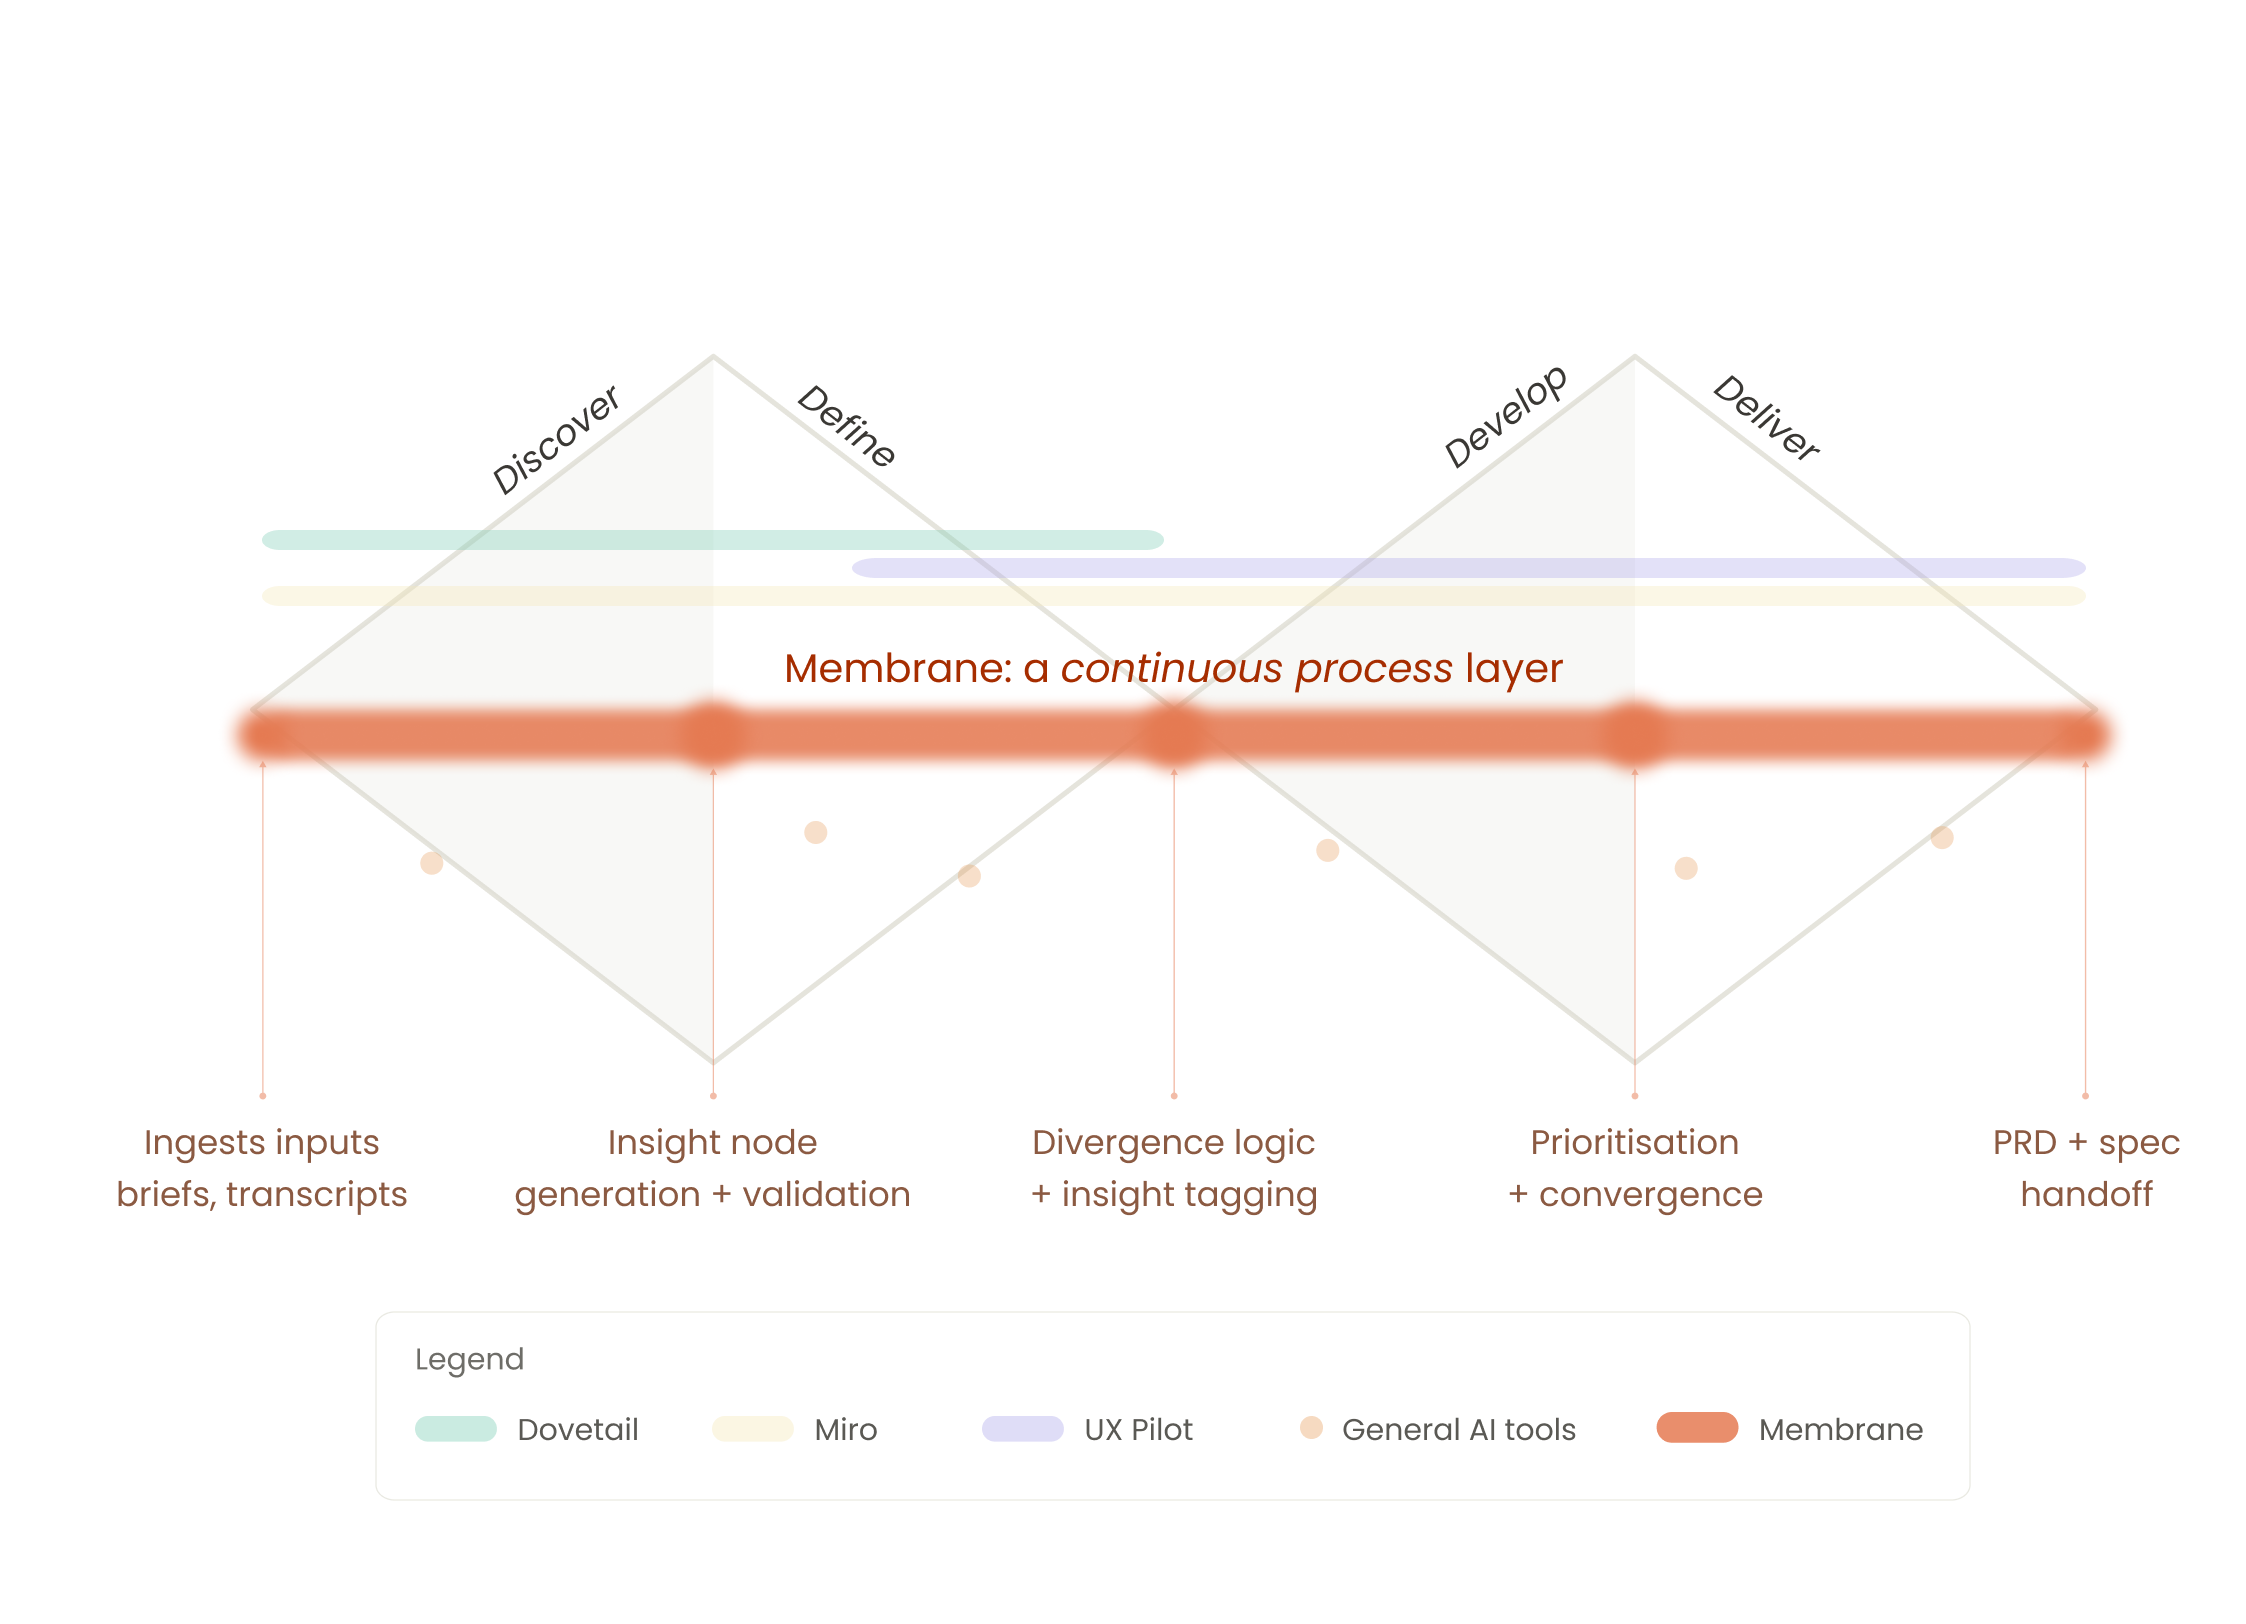
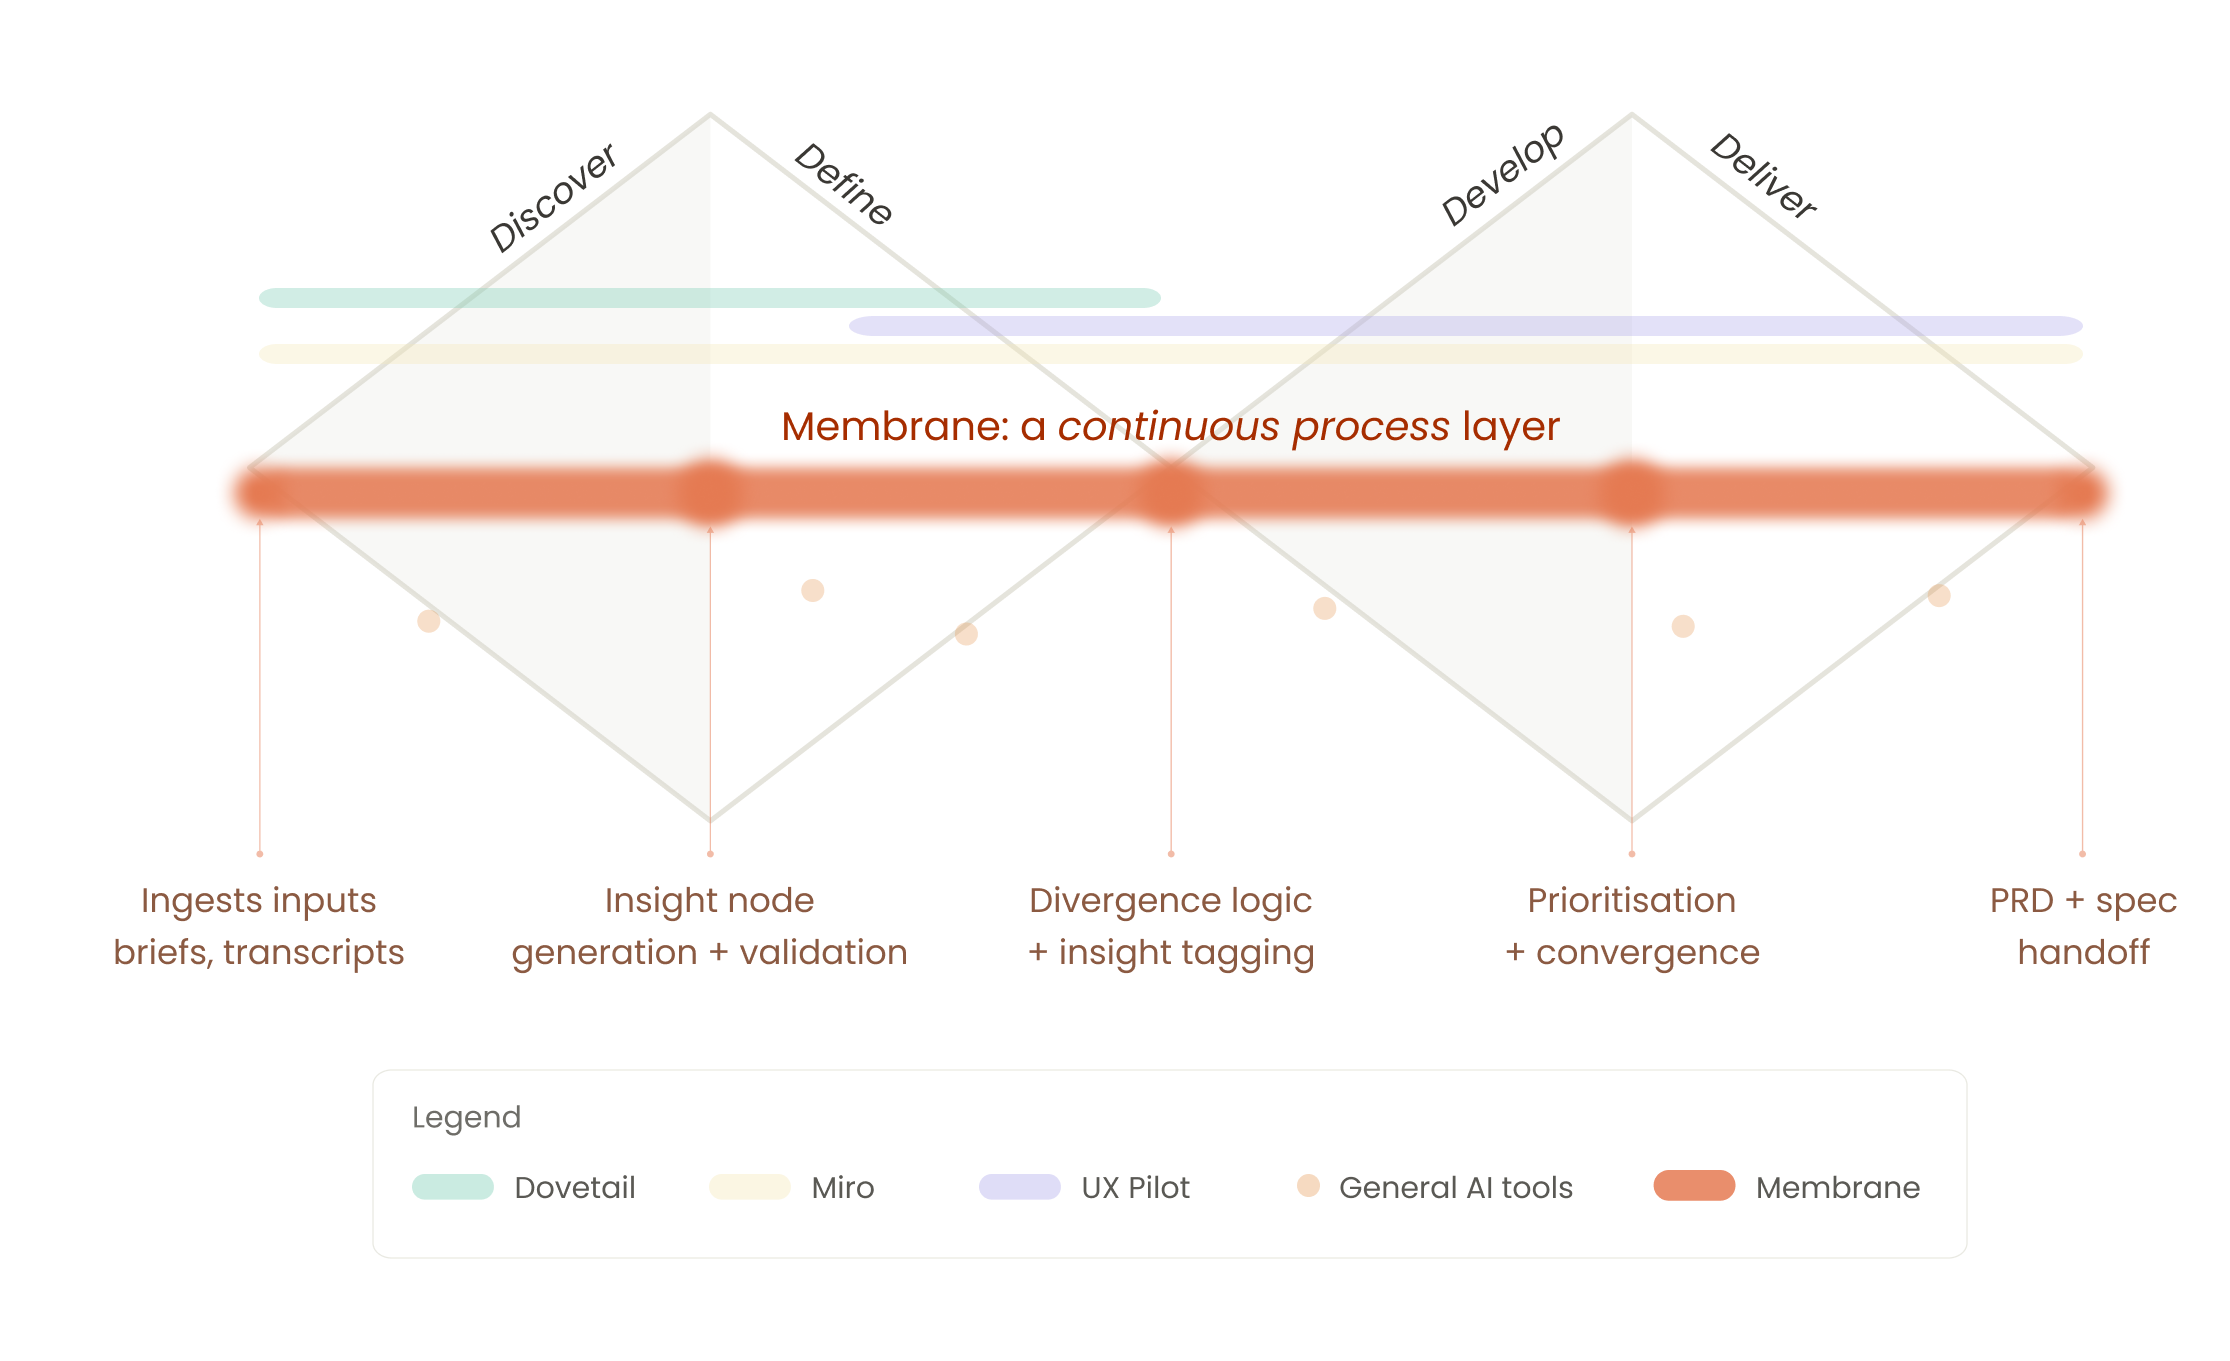
Typography fixes to index.html; add meta.html; update membrane images

diff --git a/meta.html b/meta.html
@@ -1,0 +1,244 @@
+<!DOCTYPE html>
+<html lang="en" data-theme="dark">
+<head>
+  <meta charset="UTF-8" />
+  <meta name="viewport" content="width=device-width, initial-scale=1.0" />
+  <title>This Portfolio Is the Case Study — Karissa Ly</title>
+  <link rel="preconnect" href="https://fonts.googleapis.com" />
+  <link rel="preconnect" href="https://fonts.gstatic.com" crossorigin />
+  <link href="https://fonts.googleapis.com/css2?family=Playfair+Display:ital,wght@0,400;0,600;1,400;1,600&display=swap" rel="stylesheet" />
+  <link href="https://api.fontshare.com/v2/css?f[]=satoshi@400,500,600&display=swap" rel="stylesheet" />
+
+  <style>
+    :root {
+      --orange:  #FF7A35;
+      --lilac:   #C8AAFF;
+      --blue:    #7DCEFF;
+      --pink:    #FF96C3;
+      --serif:   'Playfair Display', Georgia, serif;
+      --sans:    'Satoshi', system-ui, sans-serif;
+      --ease:    cubic-bezier(0.16, 1, 0.3, 1);
+    }
+    [data-theme="dark"] {
+      --bg:         #0d0c0b;
+      --bg-card:    #131210;
+      --bg-subtle:  rgba(240,237,232,0.04);
+      --text:       #f0ede8;
+      --text-muted: rgba(240,237,232,0.5);
+      --text-faint: rgba(240,237,232,0.25);
+      --border:     rgba(240,237,232,0.08);
+      --border-mid: rgba(240,237,232,0.14);
+      --accent:     #FF7A35;
+    }
+    [data-theme="light"] {
+      --bg:         #faf7f2;
+      --bg-card:    #f2ede4;
+      --bg-subtle:  rgba(26,25,22,0.04);
+      --text:       #1a1916;
+      --text-muted: rgba(26,25,22,0.5);
+      --text-faint: rgba(26,25,22,0.25);
+      --border:     rgba(26,25,22,0.09);
+      --border-mid: rgba(26,25,22,0.15);
+      --orange:  #E8540A;
+      --accent:     #E8540A;
+    }
+
+    *, *::before, *::after { box-sizing: border-box; margin: 0; padding: 0; }
+    html { font-size: 16px; scroll-behavior: smooth; }
+    body {
+      background: var(--bg); color: var(--text);
+      font-family: var(--sans); line-height: 1.7;
+      transition: background 0.3s var(--ease), color 0.3s var(--ease);
+    }
+    a { color: inherit; text-decoration: none; }
+    button { cursor: pointer; font-family: var(--sans); }
+
+    @keyframes fadeUp {
+      from { opacity: 0; transform: translateY(12px); }
+      to   { opacity: 1; transform: translateY(0); }
+    }
+
+    /* NAV */
+    nav {
+      position: sticky; top: 0; z-index: 100;
+      background: var(--bg); border-bottom: 0.5px solid var(--border);
+    }
+    .nav-inner {
+      max-width: 1080px; margin: 0 auto; padding: 18px 32px;
+      display: flex; justify-content: space-between; align-items: center;
+    }
+    .nav-logo { font-family: var(--serif); font-style: italic; font-size: 22px; }
+    .nav-links { display: flex; gap: 24px; align-items: center; }
+    .nav-back {
+      font-size: 12px; font-weight: 500; letter-spacing: 0.08em;
+      text-transform: uppercase; color: var(--text-muted);
+      transition: color 0.2s;
+    }
+    .nav-back:hover { color: var(--text); }
+    .mode-toggle {
+      background: var(--bg-subtle); border: 0.5px solid var(--border-mid);
+      border-radius: 20px; padding: 6px 12px;
+      font-size: 11px; font-weight: 500; letter-spacing: 0.08em;
+      color: var(--text-muted); transition: color 0.2s, background 0.2s;
+    }
+    .mode-toggle:hover { color: var(--text); }
+
+    /* HERO */
+    .meta-hero {
+      max-width: 680px; margin: 0 auto;
+      padding: 72px 32px 56px;
+    }
+    .meta-type {
+      font-size: 11px; font-weight: 600; letter-spacing: 0.18em;
+      text-transform: uppercase; color: var(--accent); margin-bottom: 20px;
+      opacity: 0; animation: fadeUp 0.7s var(--ease) 0.1s forwards;
+    }
+    .meta-title {
+      font-family: var(--serif); font-size: clamp(36px, 5vw, 56px);
+      line-height: 1.05; font-weight: 400; margin-bottom: 48px;
+      opacity: 0; animation: fadeUp 0.7s var(--ease) 0.2s forwards;
+    }
+    .meta-title em { font-style: italic; color: var(--accent); }
+
+    /* ESSAY */
+    .meta-essay {
+      max-width: 680px; margin: 0 auto;
+      padding: 0 32px 80px;
+    }
+    .meta-essay p {
+      font-size: 16px; line-height: 1.9;
+      color: var(--text-muted); margin-bottom: 24px;
+    }
+    .meta-essay p:last-child { margin-bottom: 0; }
+    .meta-essay strong { color: var(--text); font-weight: 500; }
+    .meta-essay em { font-style: italic; color: var(--text); }
+
+    .meta-divider {
+      width: 40px; height: 1px;
+      background: var(--border-mid); margin: 40px 0;
+    }
+
+    /* STACK */
+    .meta-stack {
+      margin: 32px 0; padding: 24px 28px;
+      border-radius: 10px; background: var(--bg-card);
+      border: 0.5px solid var(--border);
+      display: flex; gap: 32px; flex-wrap: wrap;
+    }
+    .stack-item {}
+    .stack-label {
+      font-size: 10px; font-weight: 600; letter-spacing: 0.14em;
+      text-transform: uppercase; color: var(--text-faint); margin-bottom: 6px;
+    }
+    .stack-value { font-size: 13px; font-weight: 500; color: var(--text); }
+
+    /* BACK LINK */
+    .meta-back {
+      display: inline-flex; align-items: center; gap: 8px;
+      font-size: 13px; font-weight: 500; color: var(--accent);
+      border-bottom: 0.5px solid rgba(255,122,53,0.3);
+      padding-bottom: 2px; transition: opacity 0.2s;
+    }
+    .meta-back:hover { opacity: 0.75; }
+
+    /* FOOTER */
+    footer { border-top: 0.5px solid var(--border); padding: 32px; }
+    .footer-inner {
+      max-width: 1080px; margin: 0 auto;
+      display: flex; justify-content: space-between;
+      align-items: center; flex-wrap: wrap; gap: 16px;
+    }
+    .footer-name { font-family: var(--serif); font-style: italic; font-size: 18px; }
+    .footer-links { display: flex; gap: 20px; }
+    .footer-links a {
+      font-size: 12px; font-weight: 500; letter-spacing: 0.08em;
+      text-transform: uppercase; color: var(--text-muted); transition: color 0.2s;
+    }
+    .footer-links a:hover { color: var(--text); }
+
+    @media (max-width: 720px) {
+      .meta-hero, .meta-essay { padding-left: 20px; padding-right: 20px; }
+      .nav-inner { padding: 14px 20px; }
+    }
+  </style>
+</head>
+<body>
+
+  <nav>
+    <div class="nav-inner">
+      <a href="index.html" class="nav-logo">k.</a>
+      <div class="nav-links">
+        <a href="index.html#work" class="nav-back">← All work</a>
+        <button class="mode-toggle" onclick="
+          const t = document.documentElement;
+          t.setAttribute('data-theme', t.getAttribute('data-theme')==='dark'?'light':'dark');
+          this.textContent = t.getAttribute('data-theme')==='dark'?'light mode':'dark mode';
+        ">light mode</button>
+      </div>
+    </div>
+  </nav>
+
+  <div class="meta-hero">
+    <div class="meta-type">Vibe-Coding</div>
+    <h1 class="meta-title">This Portfolio<br>Is the <em>Case Study</em></h1>
+  </div>
+
+  <div class="meta-essay">
+
+    <p>I tried building a portfolio from a template years ago. It never felt like me, so I abandoned it.</p>
+
+    <p>This one started as an experiment. I was playing around with Lovable for an assignment — just testing how far you could get with prompting alone — and thought I'd try generating a portfolio layout while I was at it. It kind of worked. But Lovable goes high-fidelity fast, and I kept wanting to change things it wasn't built to change easily. So I moved into Claude and started writing the code myself, with Claude doing most of the heavy lifting and me directing it.</p>
+
+    <p>The node-link diagram was the part I was most excited about. During my first term, my data visualisation lecturer Professor Jo Wood opened the module by showing us work from the Information is Beautiful awards — including <a href="https://rootsofracism.taaf.org/" target="_blank" rel="noopener" style="color: var(--accent); border-bottom: 0.5px solid rgba(255,122,53,0.3);">Roots of Racism by TAAF</a>, which was my first proper encounter with scrollytelling, and I was immediately obsessed. Later in the module he showed us node-link diagrams as a way of visualising networks and relationships. I wanted to use the same idea to visualise myself: skills, tools, interests as a network rather than a list. Data visualisation is a side passion of mine, something I genuinely almost pursued further, so putting it at the centre of the homepage felt right.</p>
+
+    <p>The scrollytelling took a long time to get working. I went down several rabbit holes before landing on Scrollama.js. The physics simulation that drives the node clustering is still not perfect. I'm okay with that — it's more interesting for being slightly alive.</p>
+
+    <p>Everything on this site is something I made, learned from, or lived through. This is a live document — I'll keep building it.</p>
+
+    <div class="meta-divider"></div>
+
+    <p>The stack, for anyone curious:</p>
+
+    <div class="meta-stack">
+      <div class="stack-item">
+        <div class="stack-label">Built with</div>
+        <div class="stack-value">HTML · CSS · JavaScript</div>
+      </div>
+      <div class="stack-item">
+        <div class="stack-label">AI tools</div>
+        <div class="stack-value">Claude · Lovable</div>
+      </div>
+      <div class="stack-item">
+        <div class="stack-label">Fonts</div>
+        <div class="stack-value">Playfair Display · Satoshi</div>
+      </div>
+      <div class="stack-item">
+        <div class="stack-label">Hosting</div>
+        <div class="stack-value">GitHub Pages</div>
+      </div>
+      <div class="stack-item">
+        <div class="stack-label">Scrollytelling</div>
+        <div class="stack-value">Scrollama.js</div>
+      </div>
+    </div>
+
+    <div class="meta-divider"></div>
+
+    <p>If you've read this far, you've seen most of what I can do. The rest is in the work.</p>
+
+    <a href="index.html#work" class="meta-back">← Back to the work</a>
+
+  </div>
+
+  <footer>
+    <div class="footer-inner">
+      <div class="footer-name">karissa.</div>
+      <div class="footer-links">
+        <a href="https://linkedin.com/in/karissaly" target="_blank" rel="noopener">LinkedIn</a>
+        <a href="mailto:[email redacted]">Email</a>
+      </div>
+    </div>
+  </footer>
+
+</body>
+</html>

diff --git a/index.html b/index.html
@@ -66,7 +66,7 @@
     html { font-size: 16px; scroll-behavior: smooth; }
     body {
       background: var(--bg); color: var(--text);
-      font-family: var(--sans); font-weight: 400; line-height: 1.6;
+      font-family: var(--sans); font-weight: 400; line-height: 1.7;
       min-height: 100vh;
       transition: background 0.35s var(--ease-out), color 0.35s var(--ease-out);
       overflow-x: hidden;
@@ -352,7 +352,7 @@
       max-width: 1080px; margin: 0 auto;
       display: flex; justify-content: space-between; align-items: center;
     }
-    .footer-name { font-family: var(--serif); font-style: italic; font-size: 15px; color: var(--text-faint); }
+    .footer-name { font-family: var(--serif); font-style: italic; font-size: 18px; color: var(--text); }
     .footer-links { display: flex; gap: 20px; }
     .footer-links a {
       font-size: 11px; font-weight: 500; letter-spacing: 0.08em;